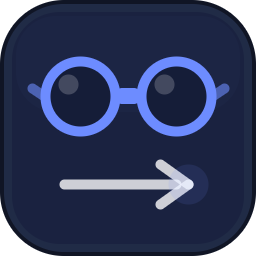
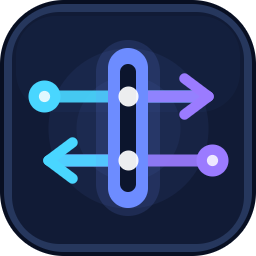
release: v0.8.0-1

Changed region(s): [[0.0938, 0.1875, 0.9062, 0.8438]]

diff --git a/RELEASE_NOTES_TEMP.md b/RELEASE_NOTES_TEMP.md
@@ -1,28 +1,26 @@
 # What's New / 新功能
 
-## 🔗 Upstream Upgrade / 上游升级
+## 🎨 New App Icon / 全新应用图标
 
-• Upgraded the embedded copilot-proxy from upstream `v0.7.15` to `v0.8.0` / 内嵌 copilot-proxy 从上游 `v0.7.15` 升级到 `v0.8.0`
-• Included official GPT-5.6 family support from upstream `v0.7.16` / 纳入上游 `v0.7.16` 正式发布的 GPT-5.6 系列支持
-• Added stricter host, CORS, token exposure, request translation, and native-service lifecycle protections / 加强 Host、CORS、token 暴露、请求转换和原生服务生命周期保护
-• Requests that cannot be translated faithfully now return a clear `400` instead of silently dropping fields / 无法可靠转换的请求现在会明确返回 `400`，不再静默丢弃字段
+• Replaced the previous goggles-and-arrow icon with a clearer bidirectional proxy gateway / 用更清晰的双向代理网关图形替换原有护目镜加箭头图标
+• Opposing cyan and violet data routes now show request and response traffic crossing the local proxy boundary / 青色与紫色的相反数据流表示请求和响应穿过本地代理边界
+• Updated the Windows executable icon, application/window icon, system tray variants, macOS template icon, and renderer icon from the same design / 同步更新 Windows 程序图标、应用窗口图标、系统托盘图标、macOS 模板图标和页面图标
+• Multi-resolution Windows icons remain legible from 16px through 256px / Windows 多尺寸图标在 16px 到 256px 下均保持清晰可辨
 
-## 🔧 Runtime Compatibility / 运行时兼容性
+## 🔧 Compatibility / 兼容性
 
-• Upgraded Electron from `33.4.11` to `41.10.1`, moving the packaged runtime from Node `20.18.3` to Node `24.18.0` / Electron 从 `33.4.11` 升级到 `41.10.1`，打包运行时由 Node `20.18.3` 升级到 Node `24.18.0`
-• Preserved local conversation recording middleware on the new `conv-middleware-v080` branch / 在新的 `conv-middleware-v080` 分支上保留本地对话记录中间件
-• Non-loopback deployments must explicitly configure `COPILOT_PROXY_ALLOWED_HOSTS` and `COPILOT_PROXY_CORS_ORIGINS`; the GUI's default localhost mode continues to work without extra configuration / 非回环地址部署需显式配置 `COPILOT_PROXY_ALLOWED_HOSTS` 和 `COPILOT_PROXY_CORS_ORIGINS`；GUI 默认 localhost 模式无需额外配置
+• Keeps the embedded proxy on upstream `v0.8.0` with Electron `41.10.1`; this hotfix does not change proxy behavior / 内嵌代理仍为上游 `v0.8.0`，Electron 仍为 `41.10.1`；本次 hotfix 不改变代理行为
 
-## Download / 下载
+## ⬇ Download / 下载
 
 | Platform | File | Note |
 | -------- | ---- | ---- |
-| Windows (Installer) | Copilot.Proxy.GUI-0.8.0-setup.exe | **Recommended** / 推荐，supports lightweight update / 支持轻量更新 |
-| Windows (Portable) | Copilot.Proxy.GUI-0.8.0-portable.exe | No installation needed / 无需安装，双击即用 |
-| macOS (Apple Silicon) | Copilot.Proxy.GUI-0.8.0-arm64.dmg | M1/M2/M3/M4 Mac |
-| macOS (Intel) | Copilot.Proxy.GUI-0.8.0-x64.dmg | Intel Mac |
+| Windows (Installer) | Copilot.Proxy.GUI-0.8.0-1-setup.exe | **Recommended** / 推荐，supports lightweight update / 支持轻量更新 |
+| Windows (Portable) | Copilot.Proxy.GUI-0.8.0-1-portable.exe | No installation needed / 无需安装，双击即用 |
+| macOS (Apple Silicon) | Copilot.Proxy.GUI-0.8.0-1-arm64.dmg | M1/M2/M3/M4 Mac |
+| macOS (Intel) | Copilot.Proxy.GUI-0.8.0-1-x64.dmg | Intel Mac |
 
 > macOS first launch / macOS 首次启动: Right-click the app -> Open -> click "Open" in the dialog. If blocked, go to System Settings -> Privacy & Security -> click "Open Anyway".
 > 右键点击应用 -> 打开 -> 在弹窗中点击"打开"。如被阻止，前往系统设置 -> 隐私与安全性 -> 点击"仍要打开"。
 
-Full Changelog: [v0.7.15-3...v0.8.0](https://github.com/kylefu8/copilot-proxy-gui/compare/v0.7.15-3...v0.8.0)
+Full Changelog: [v0.8.0...v0.8.0-1](https://github.com/kylefu8/copilot-proxy-gui/compare/v0.8.0...v0.8.0-1)

diff --git a/RELEASE_NOTES.md b/RELEASE_NOTES.md
@@ -36,6 +36,35 @@ Rules:
 
 ---
 
+# v0.8.0-1
+
+# What's New / 新功能
+
+## 🎨 New App Icon / 全新应用图标
+
+• Replaced the previous goggles-and-arrow icon with a clearer bidirectional proxy gateway / 用更清晰的双向代理网关图形替换原有护目镜加箭头图标
+• Opposing cyan and violet data routes now show request and response traffic crossing the local proxy boundary / 青色与紫色的相反数据流表示请求和响应穿过本地代理边界
+• Updated the Windows executable icon, application/window icon, system tray variants, macOS template icon, and renderer icon from the same design / 同步更新 Windows 程序图标、应用窗口图标、系统托盘图标、macOS 模板图标和页面图标
+• Multi-resolution Windows icons remain legible from 16px through 256px / Windows 多尺寸图标在 16px 到 256px 下均保持清晰可辨
+
+## 🔧 Compatibility / 兼容性
+
+• Keeps the embedded proxy on upstream `v0.8.0` with Electron `41.10.1`; this hotfix does not change proxy behavior / 内嵌代理仍为上游 `v0.8.0`，Electron 仍为 `41.10.1`；本次 hotfix 不改变代理行为
+
+## ⬇ Download / 下载
+
+| Platform | File | Note |
+| -------- | ---- | ---- |
+| Windows (Installer) | Copilot.Proxy.GUI-0.8.0-1-setup.exe | **Recommended** / 推荐，supports lightweight update / 支持轻量更新 |
+| Windows (Portable) | Copilot.Proxy.GUI-0.8.0-1-portable.exe | No installation needed / 无需安装，双击即用 |
+| macOS (Apple Silicon) | Copilot.Proxy.GUI-0.8.0-1-arm64.dmg | M1/M2/M3/M4 Mac |
+| macOS (Intel) | Copilot.Proxy.GUI-0.8.0-1-x64.dmg | Intel Mac |
+
+> macOS first launch / macOS 首次启动: Right-click the app → Open → click "Open" in the dialog. If blocked, go to System Settings → Privacy & Security → click "Open Anyway".
+> 右键点击应用 → 打开 → 在弹窗中点击"打开"。如被阻止，前往系统设置 → 隐私与安全性 → 点击"仍要打开"。
+
+Full Changelog: [v0.8.0...v0.8.0-1](https://github.com/kylefu8/copilot-proxy-gui/compare/v0.8.0...v0.8.0-1)
+
 # v0.8.0
 
 # What's New / 新功能

diff --git a/DEVLOG.md b/DEVLOG.md
@@ -1,5 +1,39 @@
 # Development Log
 
+## 2026-07-13 - v0.8.0-1 bidirectional gateway icon
+
+### Summary
+
+Replaced the previous goggles-and-arrow application icon with a bidirectional proxy gateway. Cyan and violet routes travel in opposite directions through a central portal, making the request/response relay concept readable without relying on GitHub's Copilot mark. The design keeps the existing dark navy application palette and remains distinct at taskbar and tray sizes.
+
+### Changes
+
+- Reworked the programmatic application icon and Windows multi-resolution icon generator
+- Updated runtime window/taskbar, colored tray, and macOS template icon variants
+- Kept `public/icon.png` generated from the same source design as the packaged icon
+- Bumped GUI package/release version to `0.8.0-1`
+- Kept the embedded `copilot-proxy` at upstream `v0.8.0` plus local conversation middleware; no proxy behavior changed
+
+### Validation
+
+- `node --check electron/icons.cjs` - passed
+- `node --check scripts/generate-icons.cjs` - passed
+- `node scripts/generate-icons.cjs` - passed; generated 256px PNG and 16/32/48/64/128/256px ICO layers
+- Confirmed `public/icon.png` and `build/icon.png` are byte-identical
+- `npm.cmd run desktop:build` - passed; generated Windows setup/portable artifacts and manifest `0.8.0-1`
+- Confirmed the packaged Windows executable contains the new icon resource
+- Packaged GUI smoke - remained running for 6 seconds with three Electron child processes
+- Confirmed manifest app.asar and proxy bundle SHA-256 values match the generated assets
+
+### Files changed
+
+- `electron/icons.cjs` - runtime application and tray icon design
+- `scripts/generate-icons.cjs` - packaged PNG/ICO/macOS source icon design
+- `public/icon.png` - generated renderer/web icon
+- `package.json` / `package-lock.json` - `0.8.0-1` version
+- `RELEASE_NOTES.md` / `RELEASE_NOTES_TEMP.md` - `v0.8.0-1` release notes
+- `DEVLOG.md` - this entry
+
 ## 2026-07-13 - v0.8.0 upstream security and protocol sync
 
 ### Summary
